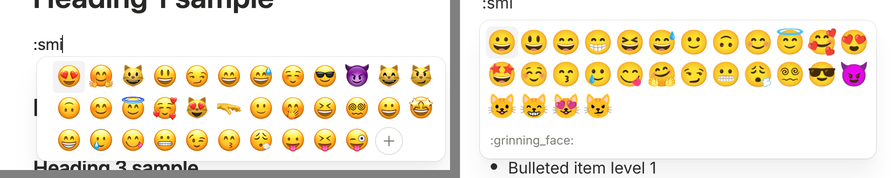
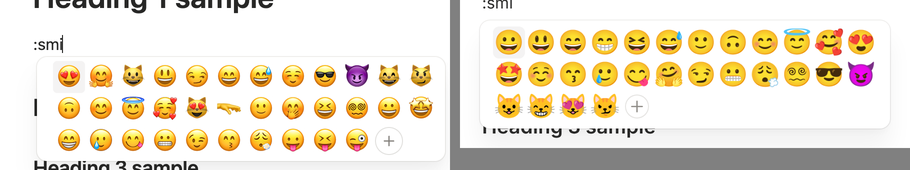
parity: emoji picker search field/recents/category bar, inline emoji grid with more button, mention menu sections/paths

diff --git a/packages/app/src/editor/inline-menus.tsx b/packages/app/src/editor/inline-menus.tsx
@@ -11,6 +11,7 @@ import { deleteRange, insertText, rtPlain, concat, slice } from './richtext';
 import { focusBlock } from './registry';
 import { applyKind } from './apply-kind';
 import { setTitle } from './commands';
+import { openEmojiPicker } from './emoji-picker';
 import { EMOJI, searchEmoji, type EmojiEntry, recentEmoji, pushRecentEmoji } from './emoji-data';
 import { pageTitle, breadcrumbPath, isInTrash, createPage } from '../app/pages';
 
@@ -153,7 +154,7 @@ function MentionMenu({ s, close }: { s: Session; close: () => void }) {
   const [active, setActive] = useState(0);
   const q = s.query.toLowerCase();
   const u = store.users.get(store.currentUser)!;
-  type Row = { id: string; label: string; sub?: string; icon: React.ReactNode; run: () => void; section: string };
+  type Row = { id: string; label: string; sub?: string; inlineSub?: string; icon: React.ReactNode; run: () => void; section: string };
   const insertToken = (seg: RichText) => {
     const c = consumeTrigger(); close(); if (!c) return;
     const title = concat(slice(c.title, 0, c.at), seg, [[' ']], slice(c.title, c.at));
@@ -164,14 +165,16 @@ function MentionMenu({ s, close }: { s: Session; close: () => void }) {
   const tomorrow = new Date(today.getTime() + 86400000);
   const rows: Row[] = [];
   const dateRows: Row[] = [
-    { id: 'today', label: t('mention.today'), sub: `${today.getFullYear()}年${today.getMonth() + 1}月${today.getDate()}日`, icon: <Icon name="calendar" size={20} />, section: t('mention.date'), run: () => insertToken([['‣', { mention: { kind: 'date', value: iso(today) } }]]) },
-    { id: 'remind', label: t('mention.remind'), sub: t('mention.remindSub'), icon: <Icon name="alarm" size={20} />, section: t('mention.date'), run: () => insertToken([['‣', { mention: { kind: 'date', value: iso(tomorrow) } }]]) },
+    { id: 'today', label: t('mention.today'), icon: <Icon name="clock" size={20} />, section: t('mention.date'), run: () => insertToken([['‣', { mention: { kind: 'date', value: iso(today) } }]]) },
+    { id: 'remind', label: t('mention.remind'), inlineSub: t('mention.remindSub'), icon: <Icon name="alarm" size={20} />, section: t('mention.date'), run: () => insertToken([['‣', { mention: { kind: 'date', value: iso(tomorrow) } }]]) },
   ];
   rows.push(...dateRows.filter((r) => !q || r.label.toLowerCase().includes(q) || 'today tomorrow remind date'.includes(q)));
-  if (!q || u.name.toLowerCase().includes(q) || 'person people user'.includes(q)) rows.push({ id: 'me', label: u.name, icon: <span className="ink-avatar" style={{ width: 20, height: 20, fontSize: 8.5 }}>{u.avatar}</span>, section: t('mention.people'), run: () => insertToken([['‣', { mention: { kind: 'user', id: u.id } }]]) });
+  if (q && (u.name.toLowerCase().includes(q) || 'person people user'.includes(q))) rows.push({ id: 'me', label: u.name, icon: <span className="ink-avatar" style={{ width: 20, height: 20, fontSize: 8.5 }}>{u.avatar}</span>, section: t('mention.people'), run: () => insertToken([['‣', { mention: { kind: 'user', id: u.id } }]]) });
   rows.push({ id: 'invite', label: t('mention.invite'), icon: <Icon name="addUser" size={20} />, section: t('mention.people'), run: () => close() });
-  const pages = allPageIds().filter((id) => !q || pageTitle(store.get(id)).toLowerCase().includes(q)).slice(0, 8);
-  for (const id of pages) rows.push({ id, label: pageTitle(store.get(id)), sub: breadcrumbPath(id).slice(0, -1).map((p) => pageTitle(p)).join(' / ') || undefined, icon: <PageIcon block={store.get(id)} size={20} />, section: t('mention.pages'), run: () => insertToken([['‣', { mention: { kind: 'page', id } }]]) });
+  const here = store.pageOf(s.blockId)?.id;
+  const pathSub = (id: string) => { const path = breadcrumbPath(id).slice(0, -1); return (path.length > 2 ? `${pageTitle(path[0])} / … / ${pageTitle(path[path.length - 1])}` : path.map((p) => pageTitle(p)).join(' / ')) || undefined; };
+  const pages = allPageIds().filter((id) => id !== here && (!q || pageTitle(store.get(id)).toLowerCase().includes(q))).slice(0, 8);
+  for (const id of pages) rows.push({ id, label: pageTitle(store.get(id)), sub: pathSub(id), icon: <PageIcon block={store.get(id)} size={20} />, section: t('mention.pages'), run: () => insertToken([['‣', { mention: { kind: 'page', id } }]]) });
   if (q) rows.push({ id: 'new', label: t('mention.newPage', { q: s.query }), icon: <Icon name="plus" size={20} />, section: t('mention.pages'), run: () => { const c = consumeTrigger(); close(); if (!c) return; const page = store.pageOf(c.blockId)!; const nid = createPage(page.id, { open: false, title: s.query }); const title = concat(slice(c.title, 0, c.at), [['‣', { mention: { kind: 'page', id: nid } }], [' ']], slice(c.title, c.at)); setTitle(c.blockId, title, false); focusBlock(c.blockId, c.at + 2); } });
   useEffect(() => setActive(0), [s.query]);
   keyHandler = (e) => {
@@ -181,21 +184,24 @@ function MentionMenu({ s, close }: { s: Session; close: () => void }) {
     if (e.key === 'Escape') { close(); return true; }
     return false;
   };
-  let lastSection = '';
+  const sections = [...new Set(rows.map((r) => r.section))];
   return (
-    <div className="ink-menu ink-mention-menu" style={{ width: 320 }}>
+    <div className="ink-menu ink-mention-menu" style={{ width: 330 }}>
       <div className="ink-menu-body" style={{ maxHeight: 360 }}>
-        <div className="ink-menu-group">
-          {rows.map((r, i) => {
-            const head = r.section !== lastSection ? (lastSection = r.section, <div key={'h' + i} className="ink-menu-label">{r.section}</div>) : null;
-            return [head, (
-              <div key={r.id} className={'ink-menu-item ink-mention-item' + (i === active ? ' is-active' : '') + (r.sub ? ' has-sub' : '')} onMouseMove={() => setActive(i)} onMouseDown={(e) => { e.preventDefault(); r.run(); }}>
-                <span className="ink-menu-icon">{r.icon}</span>
-                <span className="ink-menu-text"><span className="ink-mention-label">{r.label}</span>{r.sub && <span className="ink-mention-sub">{r.sub}</span>}</span>
-              </div>
-            )];
-          })}
-        </div>
+        {sections.map((sec, si) => (
+          <div key={sec} className="ink-mention-sec">
+            {si > 0 && <div className="ink-menu-divider" />}
+            <div className="ink-menu-group">
+              <div className="ink-menu-label">{sec}</div>
+              {rows.map((r, i) => r.section !== sec ? null : (
+                <div key={r.id} className={'ink-menu-item ink-mention-item' + (i === active ? ' is-active' : '') + (r.sub ? ' has-sub' : '')} onMouseMove={() => setActive(i)} onMouseDown={(e) => { e.preventDefault(); r.run(); }}>
+                  <span className="ink-menu-icon">{r.icon}</span>
+                  <span className="ink-mention-lines"><span className="ink-mention-label">{r.label}{r.inlineSub && <span className="ink-mention-inline-sub"> — {r.inlineSub}</span>}</span>{r.sub && <span className="ink-mention-sub">{r.sub}</span>}</span>
+                </div>
+              ))}
+            </div>
+          </div>
+        ))}
       </div>
     </div>
   );
@@ -204,7 +210,7 @@ function MentionMenu({ s, close }: { s: Session; close: () => void }) {
 /* ---------------- :emoji ---------------- */
 function EmojiInline({ s, close }: { s: Session; close: () => void }) {
   const [active, setActive] = useState(0);
-  const list: EmojiEntry[] = s.query ? searchEmoji(s.query).slice(0, 48) : [...recentEmoji(), ...EMOJI].slice(0, 48);
+  const list: EmojiEntry[] = s.query ? searchEmoji(s.query).slice(0, 35) : [...recentEmoji(), ...EMOJI].slice(0, 35);
   useEffect(() => setActive(0), [s.query]);
   const pick = (e: EmojiEntry) => {
     const c = consumeTrigger(); close(); if (!c) return;
@@ -230,9 +236,14 @@ function EmojiInline({ s, close }: { s: Session; close: () => void }) {
         {list.map((em, i) => (
           <span key={em.char + i} className={'ink-emoji-cell' + (i === active ? ' is-active' : '')} title={em.name} onMouseMove={() => setActive(i)} onMouseDown={(e) => { e.preventDefault(); pick(em); }}>{em.char}</span>
         ))}
+        <span className="ink-emoji-cell ink-emoji-more" title={t('emoji.more')} onMouseDown={(e) => {
+          e.preventDefault();
+          const r = (e.currentTarget.closest('.ink-emoji-inline') as HTMLElement).getBoundingClientRect();
+          const c = consumeTrigger(); close(); if (!c) return;
+          openEmojiPicker({ anchor: new DOMRect(r.left, r.top, 0, 0), onPick: (ch) => { setTitle(c.blockId, insertText(store.get(c.blockId)!.title || [], c.at, ch), false); focusBlock(c.blockId, c.at + ch.length); } });
+        }}><Icon name="plus" size={16} stroke={1.8} /></span>
       </div>
       {!list.length && <div className="ink-menu-empty">{t('common.noResults')}</div>}
-      {list[active] && <div className="ink-emoji-inline-name">:{list[active].name.replace(/ /g, '_')}:</div>}
     </div>
   );
 }

diff --git a/packages/app/src/styles/app.css b/packages/app/src/styles/app.css
@@ -426,12 +426,17 @@ body.is-dragging-blocks .ink-handles { opacity: 0; }
 .ink-slash-footer { border-top: 1px solid var(--ink-border-primary-translucent); padding: 5px 4px 4px; }
 .ink-slash-footer-row { display: flex; align-items: center; justify-content: space-between; height: 32px; font-size: 14px; line-height: 16.8px; padding: 0 8px; border-radius: 6px; cursor: pointer; }
 .ink-slash-footer-row:hover { background: var(--ink-background-interactive-translucent); }
-.ink-mention-item { min-height: 32px; }
+.ink-mention-item { min-height: 28px; }
 .ink-mention-label { flex: 1; min-width: 0; white-space: nowrap; overflow: hidden; text-overflow: ellipsis; }
-.ink-mention-sub { color: var(--ink-text-tertiary); font-size: 12px; white-space: nowrap; overflow: hidden; text-overflow: ellipsis; max-width: 120px; }
-.ink-emoji-inline { background: var(--ink-background-elevated); border-radius: 10px; box-shadow: var(--ink-shadow-outline-lg); padding: 6px; width: 396px; }
+.ink-mention-lines { display: flex; flex-direction: column; flex: 1; min-width: 0; }
+.ink-mention-item.has-sub { height: 46px; }
+.ink-mention-inline-sub { color: var(--ink-text-secondary); font-weight: 400; }
+.ink-mention-sub { color: var(--ink-text-tertiary); font-size: 12px; line-height: 16px; white-space: nowrap; overflow: hidden; text-overflow: ellipsis; font-weight: 400; }
+.ink-emoji-inline { background: var(--ink-background-elevated); border-radius: 10px; box-shadow: var(--ink-shadow-outline-lg); padding: 6px 13px; width: 410px; }
 .ink-emoji-inline.is-empty { display: none; }
 .ink-emoji-inline-grid { display: grid; grid-template-columns: repeat(12, 32px); }
+.ink-emoji-more { font-size: 14px; color: var(--ink-icon-secondary); }
+.ink-emoji-more > svg { width: 24px; height: 24px; padding: 3px; border-radius: 50%; box-shadow: inset 0 0 0 1px var(--ink-border-primary); box-sizing: border-box; }
 .ink-emoji-inline-name { font-size: 12px; color: var(--ink-text-secondary); padding: 6px 4px 0; }
 .ink-emoji-cell { width: 32px; height: 32px; display: flex; align-items: center; justify-content: center; border-radius: 6px; font-size: 24px; cursor: pointer; font-family: "Apple Color Emoji", "Segoe UI Emoji", "Noto Color Emoji", sans-serif; }
 .ink-emoji-cell:hover, .ink-emoji-cell.is-active { background: var(--ink-background-interactive-translucent); }
@@ -467,22 +472,27 @@ body.is-dragging-blocks .ink-handles { opacity: 0; }
 .ink-swatch.is-current { box-shadow: inset 0 0 0 2px var(--ink-text-primary); }
 
 /* emoji picker */
-.ink-emoji-picker { width: 408px; height: 390px; background: var(--ink-background-elevated); border-radius: 10px; box-shadow: var(--ink-shadow-outline-lg); display: flex; flex-direction: column; overflow: hidden; font-size: 14px; }
+.ink-emoji-picker { width: 410px; height: 390px; background: var(--ink-background-elevated); border-radius: 10px; box-shadow: var(--ink-shadow-outline-lg); display: flex; flex-direction: column; overflow: hidden; font-size: 14px; }
 .ink-ep-tabs { display: flex; align-items: center; gap: 2px; padding: 6px 8px 0; box-shadow: inset 0 -1px 0 var(--ink-border-primary-translucent); }
 .ink-ep-tab { padding: 6px 8px 8px; cursor: pointer; color: var(--ink-text-secondary); position: relative; white-space: nowrap; }
 .ink-ep-tab.is-active { color: var(--ink-text-primary); }
 .ink-ep-tab.is-active::after { content: ""; position: absolute; left: 8px; right: 8px; bottom: 0; height: 2px; background: var(--ink-text-primary); }
 .ink-ep-spacer { flex: 1; }
-.ink-ep-search { display: flex; gap: 8px; padding: 10px 12px 6px; align-items: center; }
-.ink-ep-input { flex: 1; }
-.ink-ep-btn { width: 28px; height: 28px; border-radius: 6px; display: flex; align-items: center; justify-content: center; box-shadow: inset 0 0 0 1px var(--ink-border-primary-translucent); cursor: pointer; font-size: 18px; color: var(--ink-icon-secondary); }
+.ink-ep-search { display: flex; gap: 0; padding: 10px 12px 6px; align-items: center; }
+.ink-ep-input { flex: 1; display: flex; align-items: center; gap: 6px; height: 28px; padding: 0 8px; border-radius: 6px; background: var(--ink-background-secondary); box-shadow: inset 0 0 0 1px var(--ink-border-primary); color: var(--ink-icon-secondary); margin-right: 8px; }
+.ink-ep-input:focus-within { box-shadow: 0 0 0 1px #2383E2, inset 0 0 0 1px #2383E2; }
+.ink-ep-input input { flex: 1; min-width: 0; border: 0; outline: 0; background: transparent; font: inherit; font-size: 14px; color: var(--ink-text-primary); padding: 0; }
+.ink-ep-input input::placeholder { color: var(--ink-text-tertiary); }
+.ink-ep-btn { width: 28px; height: 28px; flex: none; border-radius: 6px; display: flex; align-items: center; justify-content: center; box-shadow: inset 0 0 0 1px var(--ink-border-primary-translucent); cursor: pointer; font-size: 18px; color: var(--ink-icon-secondary); }
 .ink-ep-btn:hover { background: var(--ink-background-interactive); }
 .ink-ep-scroll { flex: 1; min-height: 0; overflow-y: auto; padding: 0 12px 6px; }
-.ink-ep-label { font-size: 12px; font-weight: 500; color: var(--ink-text-secondary); padding: 8px 0 4px; }
+.ink-ep-label { font-size: 12px; line-height: 16px; font-weight: 500; color: var(--ink-text-secondary); padding: 20px 0 8px; }
+.ink-ep-section + .ink-ep-section .ink-ep-label { padding-top: 10px; }
 .ink-ep-grid { display: grid; grid-template-columns: repeat(12, 32px); }
-.ink-ep-cats { display: flex; justify-content: space-between; padding: 4px 8px; box-shadow: inset 0 1px 0 var(--ink-border-primary-translucent); }
-.ink-ep-cat { width: 28px; height: 28px; display: flex; align-items: center; justify-content: center; border-radius: 6px; color: var(--ink-icon-secondary); cursor: pointer; }
-.ink-ep-cat:hover { background: var(--ink-background-interactive-translucent); }
+.ink-ep-cats { display: flex; justify-content: space-between; padding: 8px 12px 10px; box-shadow: inset 0 1px 0 var(--ink-border-primary-translucent); }
+.ink-ep-cat { width: 32px; height: 32px; display: flex; align-items: center; justify-content: center; border-radius: 6px; color: var(--ink-icon-secondary); cursor: pointer; }
+.ink-ep-cat:hover, .ink-ep-cat.is-active { background: var(--ink-background-interactive-translucent); }
+.ink-ep-skin { box-shadow: none; }
 .ink-ep-upload { padding: 24px; display: flex; flex-direction: column; align-items: center; gap: 12px; }
 
 /* link popover / hover */

diff --git a/packages/app/src/editor/emoji-picker.tsx b/packages/app/src/editor/emoji-picker.tsx
@@ -45,7 +45,7 @@ export function EmojiPicker({ close, onPick, onRemove }: { close: () => void; on
       {tab === 'emoji' ? (
         <>
           <div className="ink-ep-search">
-            <div className="ink-ep-input"><Icon name="search" size={14} stroke={1.8} /><input data-autofocus placeholder={t('emoji.filter')} value={q} onChange={(e) => setQ(e.target.value)} onKeyDown={(e) => { if (e.key === 'Enter') { const first = sections[0]?.items[0]; if (first) pick(first); } }} /></div>
+            <div className="ink-ep-input"><Icon name="search" size={16} stroke={1.6} /><input data-autofocus placeholder={t('emoji.filter')} value={q} onChange={(e) => setQ(e.target.value)} onKeyDown={(e) => { if (e.key === 'Enter') { const first = sections[0]?.items[0]; if (first) pick(first); } }} /></div>
             <span className="ink-ep-btn" title={t('emoji.random')} onClick={() => pick(randomEmoji())}><Icon name="shuffle" size={16} stroke={1.8} /></span>
             <span className="ink-ep-btn ink-ep-skin" title={t('emoji.skin')} onClick={() => setSkin((s) => (s + 1) % SKINS.length)}>{SKINS[skin]}</span>
           </div>
@@ -59,8 +59,10 @@ export function EmojiPicker({ close, onPick, onRemove }: { close: () => void; on
             {q && !sections[0].items.length && <div className="ink-menu-empty">{t('common.noResults')}</div>}
           </div>
           <div className="ink-ep-cats">
-            <span className="ink-ep-cat" onClick={() => jump('recent')}><Icon name="clock" size={16} stroke={1.7} /></span>
-            {CATEGORIES.map((c) => <span key={c.key} className="ink-ep-cat" title={t('emoji.cat.' + c.key)} onClick={() => jump(c.key)}><Icon name={c.icon as IconName} size={16} stroke={1.7} /></span>)}
+            <span className="ink-ep-cat is-active" onClick={() => jump('recent')}><Icon name="clock" size={20} stroke={1.5} /></span>
+            {CATEGORIES.map((c) => <span key={c.key} className="ink-ep-cat" title={t('emoji.cat.' + c.key)} onClick={() => jump(c.key)}><Icon name={c.icon as IconName} size={20} stroke={1.5} /></span>)}
+            <span className="ink-ep-cat" title={t('emoji.custom')} onClick={() => setTab('upload')}><Icon name="apps" size={20} stroke={1.5} /></span>
+            <span className="ink-ep-cat ink-ep-cat-add" title={t('emoji.uploadButton')} onClick={() => setTab('upload')}><Icon name="plusCircle" size={20} stroke={1.5} /></span>
           </div>
         </>
       ) : tab === 'icons' ? (

diff --git a/packages/app/src/i18n/en.ts b/packages/app/src/i18n/en.ts
@@ -50,7 +50,7 @@ export const en: Partial<Record<keyof typeof zhCN, string>> = {
   'tb.skill.improve': 'Improve writing', 'tb.skill.proofread': 'Proofread', 'tb.skill.explain': 'Explain', 'tb.skill.reformat': 'Reformat', 'tb.skill.translate': 'Translate',
   'mention.date': 'Date', 'mention.today': 'Today', 'mention.remind': 'Remind me', 'mention.remindSub': 'Tomorrow 9:00 AM', 'mention.people': 'People', 'mention.invite': 'Invite…', 'mention.pages': 'Link to page', 'mention.newPage': 'New "{q}" sub-page',
   'emoji.tab.emoji': 'Emoji', 'emoji.tab.icons': 'Icons', 'emoji.tab.upload': 'Upload', 'emoji.remove': 'Remove', 'emoji.filter': 'Filter…', 'emoji.random': 'Random', 'emoji.skin': 'Select skin tone', 'emoji.recent': 'Recent',
-  'emoji.cat.people': 'People', 'emoji.cat.nature': 'Animals & nature', 'emoji.cat.food': 'Food & drink', 'emoji.cat.activity': 'Activity', 'emoji.cat.travel': 'Travel & places', 'emoji.cat.objects': 'Objects', 'emoji.cat.symbols': 'Symbols', 'emoji.cat.flags': 'Flags',
+  'emoji.more': 'More emoji', 'emoji.custom': 'Custom emoji', 'emoji.cat.people': 'People', 'emoji.cat.nature': 'Animals & nature', 'emoji.cat.food': 'Food & drink', 'emoji.cat.activity': 'Activity', 'emoji.cat.travel': 'Travel & places', 'emoji.cat.objects': 'Objects', 'emoji.cat.symbols': 'Symbols', 'emoji.cat.flags': 'Flags',
   'emoji.uploadHint': 'Recommended size is 280 × 280 pixels', 'emoji.uploadButton': 'Upload file',
   'set.account': 'Account', 'set.prefs': 'Preferences', 'set.notifications': 'Notifications', 'set.mailCal': 'Mail & calendar', 'set.workspace': 'Workspace', 'set.general': 'General', 'set.people': 'People',
   'set.sidebar': 'Sidebar', 'set.import': 'Import', 'set.features': 'Features', 'set.admin': 'Admin', 'set.appearance': 'Appearance', 'set.appearance.desc': 'Customize how {brand} looks on your device.',

diff --git a/packages/app/src/ui/icons.tsx b/packages/app/src/ui/icons.tsx
@@ -25,7 +25,7 @@ const REG = {
   synced: L.RefreshCcw, breadcrumb: L.ChevronsRight, tab: L.PanelTop, arrowLeft: L.ArrowLeft, arrowRight: L.ArrowRight,
   sun: L.Sun, moon: L.Moon, monitor: L.Monitor, keyboard: L.Keyboard, mic: L.Mic, embed: L.CodeXml, panelRight: L.PanelRight, filterCircle: L.ListFilter, caseSensitive: L.CaseSensitive, aiNotes: L.FileAudio, embedHtml: L.FileCode2, palette: L.Palette,
   turnInto: L.Repeat2, paintBucket: L.PaintBucket, file: L.File, info: L.Info, eye: L.Eye, user: L.User,
-  th1: L.Heading1, th2: L.Heading2, th3: L.Heading3, th4: L.Heading4,
+  plusCircle: L.CirclePlus, th1: L.Heading1, th2: L.Heading2, th3: L.Heading3, th4: L.Heading4,
   emojiAdd: L.SmilePlus, commentAdd: L.MessageSquarePlus, upload: L.Upload, cornerDownLeft: L.CornerDownLeft,
 };
 

diff --git a/packages/app/src/store/fixture.ts b/packages/app/src/store/fixture.ts
@@ -114,7 +114,7 @@ export function buildFixture(): FixtureData {
   const users: User[] = [{ id: 'user-1', name: '老 贰哔', email: 'bai@example.com', avatar: '贰哔' }];
   return {
     blocks, space, users,
-    kv: { sidebarExpanded: { [P]: true }, recentPages: ['page-db', 'row-01', 'row-03', L1.id, L2.id, L3.id, 'page-mobile'], lastColor: 'red_background', recentColors: ['red_background', 'pink_background', 'purple_background', 'blue_background', 'green_background'] },
+    kv: { sidebarExpanded: { [P]: true }, recentPages: ['page-db', 'row-01', 'row-03', L1.id, L2.id, L3.id, 'page-mobile'], lastColor: 'red_background', recentEmoji: ['📗', '📘'], recentColors: ['red_background', 'pink_background', 'purple_background', 'blue_background', 'green_background'] },
   };
 }
 

diff --git a/packages/app/src/editor/emoji-data.ts b/packages/app/src/editor/emoji-data.ts
@@ -24,7 +24,7 @@ export const CATEGORIES: { key: string; groups: number[]; icon: string }[] = [
   { key: 'activity', groups: [6], icon: 'ball' },
   { key: 'travel', groups: [5], icon: 'plane' },
   { key: 'objects', groups: [7], icon: 'bulb' },
-  { key: 'symbols', groups: [8], icon: 'symbols' },
+  { key: 'symbols', groups: [8], icon: 'circleCheck' },
   { key: 'flags', groups: [9], icon: 'flag' },
 ];
 

diff --git a/packages/app/src/i18n/zh-CN.ts b/packages/app/src/i18n/zh-CN.ts
@@ -331,7 +331,7 @@ export const zhCN = {
   'emoji.random': '随机',
   'emoji.skin': '选择肤色',
   'emoji.recent': '最近',
-  'emoji.cat.people': '人物',
+  'emoji.more': '更多表情', 'emoji.custom': '自定义表情', 'emoji.cat.people': '人物',
   'emoji.cat.nature': '动物与自然',
   'emoji.cat.food': '食物与饮料',
   'emoji.cat.activity': '活动',
